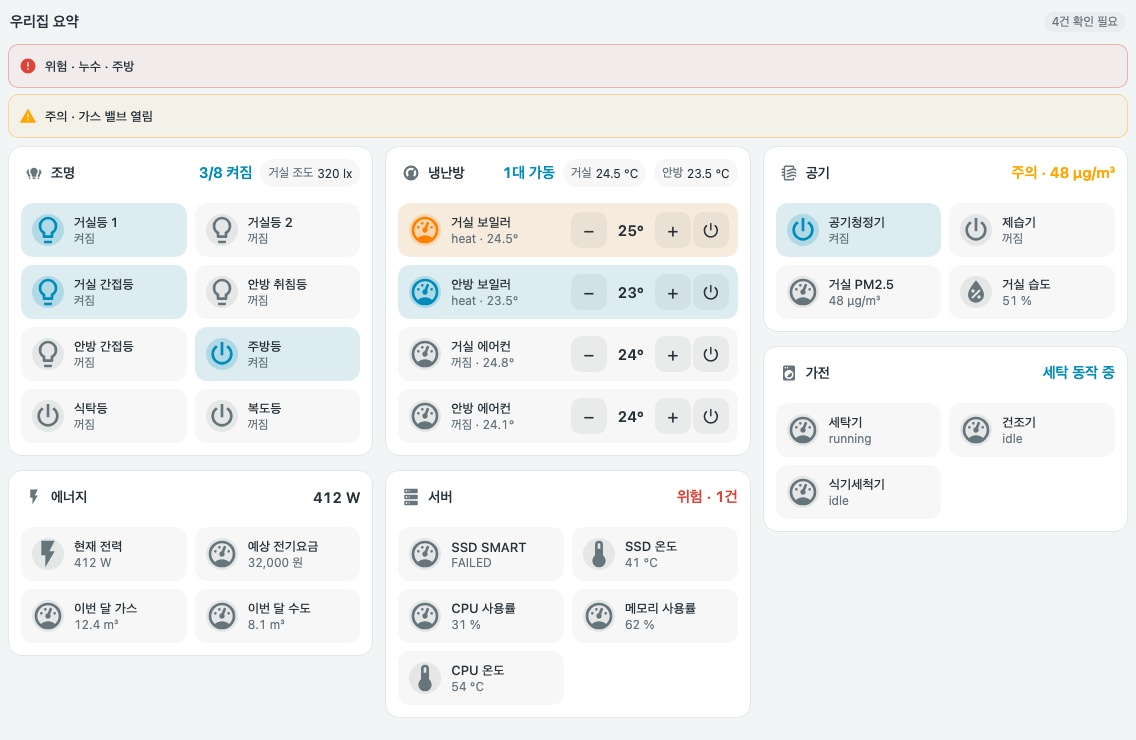
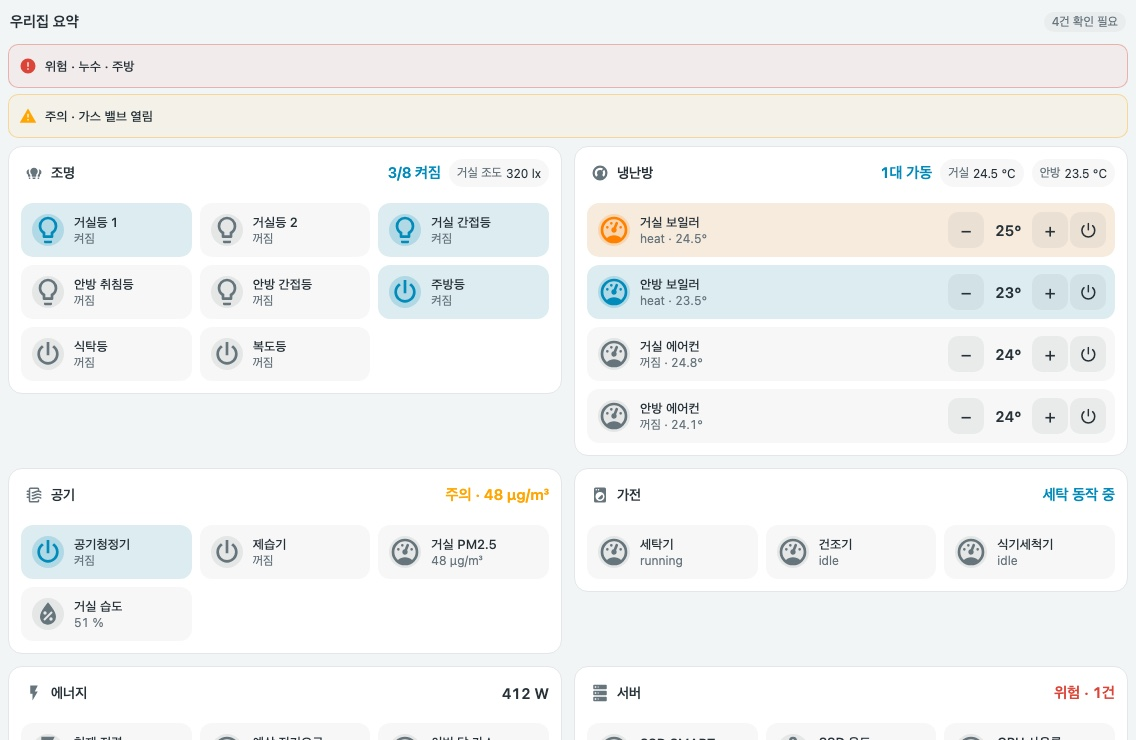
fix: keep configured group order in equal-width columns (v0.3.3)

diff --git a/compact-overview-card.js b/compact-overview-card.js
@@ -139,8 +139,8 @@
         .main small{font-size:13px;font-weight:400;letter-spacing:0;color:var(--secondary-text-color);margin-left:3px}
         .main small:empty{display:none}.sub{font-size:12px;color:var(--secondary-text-color);overflow:hidden;text-overflow:ellipsis;white-space:nowrap;min-height:15px}
         @container(max-width:360px){.sub{display:none}.tile{padding:8px}}
-        /* Packed grid: each group keeps its natural height and is placed into 4px row units (see _layoutSections), so columns have no blank space inside cards or gaps between them. */
-        .sections{display:grid;grid-template-columns:repeat(auto-fill,minmax(min(320px,100%),1fr));grid-auto-rows:4px;grid-auto-flow:row dense;column-gap:12px;row-gap:0;margin-top:12px;align-items:start}.sections:empty{display:none;margin:0}
+        /* Groups keep the configured order (left to right, top to bottom) in equal-width columns of at least 460px, so climate rows fit on one line. Cards keep their natural height. */
+        .sections{display:grid;grid-template-columns:repeat(auto-fill,minmax(min(460px,100%),1fr));gap:12px;margin-top:12px;align-items:start}.sections:empty{display:none;margin:0}
         :host([data-bare]) .sections{margin-top:0}
         :host([section-columns="1"]) .sections{grid-template-columns:minmax(0,1fr)}
         :host([section-columns="2"]) .sections{grid-template-columns:repeat(2,minmax(0,1fr))}
@@ -148,8 +148,8 @@
         @container(max-width:639px){:host([section-columns="2"]) .sections,:host([section-columns="3"]) .sections{grid-template-columns:minmax(0,1fr)}}
         ha-card.section{display:flex;flex-direction:column;overflow:hidden;box-shadow:none;align-self:start}
         /* A group may span several columns (for example so climate rows fit on one line) when the card is wide enough. */
-        @container(min-width:700px){ha-card.section[data-span="2"],ha-card.section[data-span="3"]{grid-column:span 2}}
-        @container(min-width:1050px){ha-card.section[data-span="3"]{grid-column:span 3}}
+        @container(min-width:940px){ha-card.section[data-span="2"],ha-card.section[data-span="3"]{grid-column:span 2}}
+        @container(min-width:1400px){ha-card.section[data-span="3"]{grid-column:span 3}}
         .sec-head{display:flex;align-items:center;gap:8px;flex-wrap:wrap;min-height:44px;padding:4px 12px 0}
         .sec-title{display:flex;align-items:center;gap:8px;flex:1 1 96px;min-width:96px;padding:4px;border:0;border-radius:6px;background:transparent;text-align:left;font:inherit;font-size:14px;font-weight:600;color:var(--primary-text-color)}
         div.sec-title{cursor:default}
@@ -239,21 +239,6 @@
       this.setAttribute('section-columns', config.section_columns ?? 'auto');
       this.toggleAttribute('data-bare', !tilesIn.length);
       this._build(); this._render();
-    }
-    connectedCallback() {
-      if (typeof ResizeObserver === 'function' && !this._resize) this._resize = new ResizeObserver(() => this._layoutSections());
-      for (const ref of this._sections) this._resize?.observe(ref.card);
-      this._layoutSections();
-    }
-    disconnectedCallback() { this._resize?.disconnect(); }
-    // Packs groups masonry-style: row span = group height in 4px units plus the 12px gap.
-    _layoutSections() {
-      for (const ref of this._sections) {
-        const height = ref.card.getBoundingClientRect().height;
-        if (!height) continue;
-        const span = `span ${Math.ceil((height + 12) / 4)}`;
-        if (ref.card.style.gridRowEnd !== span) ref.card.style.gridRowEnd = span;
-      }
     }
     set hass(hass) { this._hass = hass; this._render(); }
     getCardSize() {
@@ -442,12 +427,9 @@
 
     _buildSections() {
       const box = this.shadowRoot.querySelector('.sections'); box.replaceChildren(); this._sections = [];
-      this._resize?.disconnect();
       for (const section of this._config.sections ?? []) {
         const card = document.createElement('ha-card'); card.className = 'section';
-        // Groups with climate rows span two columns on wide cards by default, so the mode buttons stay on one line; `span: 1` opts out.
-        const span = section.span ?? (section.items?.some(item => item.type === 'climate') ? 2 : 1);
-        if (span > 1) card.dataset.span = String(span);
+        if (section.span && section.span > 1) card.dataset.span = String(section.span);
         const head = document.createElement('div'); head.className = 'sec-head';
         const title = document.createElement(section.navigation_path ? 'button' : 'div'); title.className = 'sec-title';
         if (section.navigation_path) { title.onclick = () => this._go(section.navigation_path); title.setAttribute('aria-label', `${section.name} 열기`); }
@@ -467,7 +449,6 @@
         const body = document.createElement('div'); body.className = 'sec-body';
         card.append(head, controls, body); box.append(card);
         this._sections.push({ section, card, sum, badges, body, chips });
-        this._resize?.observe(card);
       }
     }
 

diff --git a/docs/compact-overview-card.md b/docs/compact-overview-card.md
@@ -60,12 +60,12 @@ sections:
 | `items` | 예* | — | 칩 아래에 표시할 `compact-home-panel` 행([해당 카드](https://github.com/eigger/hass-compact-cards/blob/main/docs/compact-home-panel.md)와 동일, Compact Cards 필요). `*` 둘 중 하나 이상 |
 | `icon` | 아니요 | `mdi:circle-outline` | 제목 아이콘 |
 | `navigation_path` | 아니요 | 없음 | `/`로 시작하는 로컬 경로 |
-| `span` | 아니요 | `1`(`type: climate` 행이 있는 그룹은 `2`) | `1`, `2`, `3`. 카드 폭 700px 이상(3은 1050px 이상)에서 그룹이 여러 열을 차지해 냉난방 행처럼 넓은 행이 한 줄에 표시됩니다. 좁은 카드(모바일)에서는 무시합니다 |
+| `span` | 아니요 | `1` | `1`, `2`, `3`. 카드 폭 940px 이상(3은 1400px 이상)에서 그룹이 여러 열을 차지합니다. 좁은 카드(모바일)에서는 무시합니다 |
 | `columns` | 아니요 | `auto` | `items`의 열 수 `auto`, `1`, `2` |
 | `summary` | 아니요 | 없음 | `name` 없는 타일 사양. 헤더에 `3/8 켜짐`, `주의 · 48 µg/m³` 형태로 표시 |
 | `badges` | 아니요 | 없음 | `[{entity, name}]`. 헤더의 센서 값. 누르면 상세 정보 |
 
-그룹은 원래 높이 그대로 위에서부터 빈틈 없이 쌓습니다(카드 안에 빈 공간이 생기지 않음). 모바일에서는 1열입니다.
+그룹은 설정한 순서대로(왼쪽에서 오른쪽, 위에서 아래) 폭이 같은 열에 배치하고 카드는 원래 높이를 유지합니다. 열 폭은 최소 460px이라 compact 냉난방 행이 한 줄에 들어가고, 모바일에서는 1열입니다.
 
 ## 빠른 조작 칩
 
@@ -89,7 +89,7 @@ sections:
 | `tiles` | 예* | — | 조작 없는 요약 타일 목록. `*` `sections`와 `tiles` 중 하나 이상 필요 |
 | `name` | 아니요 | 없음 | 카드 제목 |
 | `columns` | 아니요 | `auto` | 타일 열 수 `auto`, `2`, `3`, `4`. `auto`는 카드 너비 421px부터 3열, 700px부터 4열 |
-| `section_columns` | 아니요 | `auto` | 그룹 열 수 `auto`, `1`, `2`, `3`. `auto`는 폭 320px 이상 그룹을 가로로 채움. PC에서 전체 폭을 쓰려면 이 카드가 있는 섹션에 `column_span`을 지정 |
+| `section_columns` | 아니요 | `auto` | 그룹 열 수 `auto`, `1`, `2`, `3`. `auto`는 폭 460px 이상 그룹을 가로로 채움. PC에서 전체 폭을 쓰려면 이 카드가 있는 섹션에 `column_span`을 지정 |
 | `alerts` | 아니요 | 없음 | 조건이 맞을 때만 표시하는 알림 목록 |
 
 ## 요약 타일 유형 (`tiles`와 그룹의 `summary`)

diff --git a/README.ko.md b/README.ko.md
@@ -70,11 +70,11 @@ sections:
 | `controls` | 예* | 빠른 조작 칩(아래) |
 | `items` | 예* | 칩 아래에 표시할 `compact-home-panel` 행(Compact Cards 필요). `*` `controls`/`items` 중 하나 이상 |
 | `icon`, `navigation_path` | 아니요 | 제목 아이콘, 로컬 경로 |
-| `span` | 아니요 | `1`, `2`, `3`(`type: climate` 행이 들어간 그룹은 기본 `2`, 그 외 `1`): 카드 폭이 700px 이상(3은 1050px 이상)일 때 그룹이 그 열 수만큼 차지합니다. 냉난방 행을 한 줄에 표시하려는 경우 등에 사용하며, 더 좁은 카드에서는 무시합니다 |
+| `span` | 아니요 | `1`(기본), `2`, `3`: 카드 폭이 충분할 때(2는 940px, 3은 1400px 이상) 그룹이 그 열 수만큼 차지합니다. 더 좁은 카드에서는 무시합니다 |
 | `summary` | 아니요 | `name` 없는 타일 사양(`count`, `climate`, `status`, `value`, `health`). 헤더에 굵게, 수준 색상으로 표시 |
 | `badges` | 아니요 | `[{ entity, name }]` 요약 옆 센서 값. 누르면 상세 정보 |
 
-최상위 `section_columns`(`auto`, `1`, `2`, `3`)는 그룹 열 수입니다. `auto`는 320px 이상 폭의 그룹을 가로로 채우고 원래 높이 그대로 위에서부터 빈틈 없이 쌓으며(카드 안에 빈 공간이 생기지 않음), 모바일에서는 1열입니다. PC에서 전체 폭을 쓰려면 Home Assistant 섹션 뷰에서 이 카드가 들어간 섹션에 `column_span`(예: `3`)을 지정하세요.
+최상위 `section_columns`(`auto`, `1`, `2`, `3`)는 그룹 열 수입니다. `auto`는 460px 이상 폭의 그룹을 가로로 채우고 설정한 순서대로(왼쪽에서 오른쪽, 위에서 아래) 폭이 같은 열(최소 460px)에 배치해 compact 냉난방 행이 한 줄에 들어가며, 카드는 원래 높이를 유지하고 모바일에서는 1열입니다. PC에서 전체 폭을 쓰려면 Home Assistant 섹션 뷰에서 이 카드가 들어간 섹션에 `column_span`(예: `3`)을 지정하세요.
 
 ### 빠른 조작 칩
 

diff --git a/README.md b/README.md
@@ -72,11 +72,11 @@ Prefer a controls-free summary grid? Use `tiles` instead of `sections`; see [the
 | `controls` | yes* | Quick-control chips (below) |
 | `items` | yes* | Optional `compact-home-panel` rows shown under the chips (needs Compact Cards). `*` at least one of `controls`/`items` |
 | `icon`, `navigation_path` | no | Title icon and local path |
-| `span` | no | `1`, `2` or `3` (default `2` for groups that embed `type: climate` rows, otherwise `1`): let the group take that many columns when the card is at least 700px (1050px for 3), for example so climate rows fit on one line. Ignored on narrower cards |
+| `span` | no | `1` (default), `2` or `3`: let the group take that many columns when the card is wide enough (940px for 2, 1400px for 3). Ignored on narrower cards |
 | `summary` | no | A tile spec without `name` (`count`, `climate`, `status`, `value`, `health`); shown bold in the header, coloured by level |
 | `badges` | no | `[{ entity, name }]` readings next to the summary; tap opens the entity |
 
-Top-level `section_columns` (`auto`, `1`, `2`, `3`) sets the group columns. `auto` fills the width with groups at least 320px wide, packed from the top at their natural height with no blank space inside cards or gaps between them; on mobile it is a single column. Put the card in a section with `column_span` (for example `3`) in Home Assistant's sections view to use the full width on a PC.
+Top-level `section_columns` (`auto`, `1`, `2`, `3`) sets the group columns. `auto` fills the width with groups at least 460px wide, in the configured order (left to right, top to bottom) in equal-width columns of at least 460px, so Compact climate rows stay on one line; cards keep their natural height and on mobile it is a single column. Put the card in a section with `column_span` (for example `3`) in Home Assistant's sections view to use the full width on a PC.
 
 ### Quick-control chips
 

diff --git a/CHANGELOG.md b/CHANGELOG.md
@@ -2,6 +2,10 @@
 
 ## Unreleased
 
+## 0.3.3 — 2026-10-31
+
+- Restore predictable layout: groups follow the configured order (left to right, top to bottom) in equal-width columns of at least 460px instead of being packed and reordered. Cards keep their natural height. Climate rows from Compact Cards now fit on one line in a single column, so the automatic two-column span for climate groups is removed; `span` remains optional (2 from 940px, 3 from 1400px).
+
 ## 0.3.2 — 2026-10-31
 
 - Groups that embed `type: climate` rows now span two columns on cards at least 700px wide by default, so air-conditioner mode buttons stay on one line without extra configuration; set `span: 1` to opt out.
